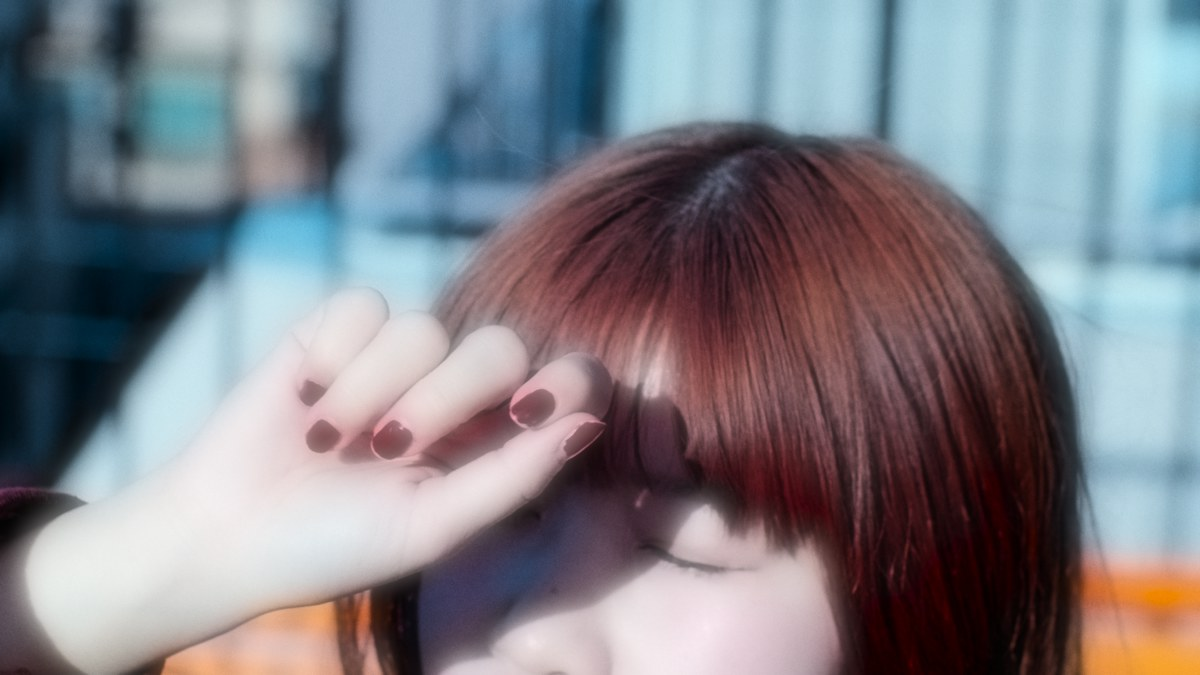
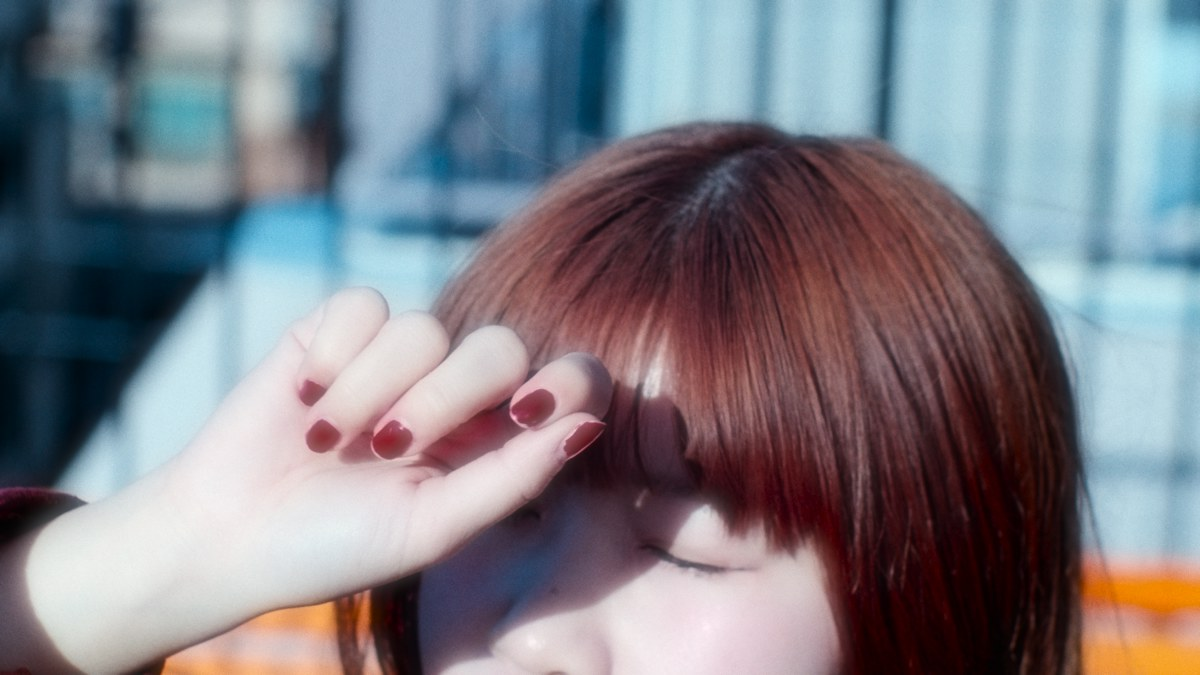
イラジエーションを弱める

diff --git a/jp/index.html b/jp/index.html
@@ -448,13 +448,13 @@ footer p{color:var(--lo); font-size:.74rem; line-height:2.1; max-width:52rem;
 <header class="hero">
   <!-- The picture first, and it moves. See the note in ../index.html: the shot
        runs untouched and the legibility is bought on the type's side. -->
-  <img class="hero-media hero-still" src="../img/hero.jpg?v=3458188f"
-       srcset="../img/hero@960.jpg?v=3458188f 960w, ../img/hero.jpg?v=3458188f 1920w"
+  <img class="hero-media hero-still" src="../img/hero.jpg?v=057b0606"
+       srcset="../img/hero@960.jpg?v=057b0606 960w, ../img/hero.jpg?v=057b0606 1920w"
        sizes="100vw" alt="" width="1920" height="1080">
   <video class="hero-media hero-video" autoplay muted loop playsinline
-         preload="metadata" poster="../img/hero.jpg?v=3458188f" width="1920" height="1080"
+         preload="metadata" poster="../img/hero.jpg?v=057b0606" width="1920" height="1080"
          aria-hidden="true" tabindex="-1">
-    <source src="../vid/hero.mp4?v=3458188f" type="video/mp4">
+    <source src="../vid/hero.mp4?v=057b0606" type="video/mp4">
   </video>
   <div class="hero-veil"></div>
   <div class="wrap">
@@ -557,9 +557,9 @@ footer p{color:var(--lo); font-size:.74rem; line-height:2.1; max-width:52rem;
       <span class="cmp-tag cmp-l">Bypass</span>
       <span class="cmp-tag cmp-r">Film Classic</span>
     </div>
-    <div class="compare" data-ver="3458188f" data-base="../img/" data-prefix="look-">
-      <img src="../img/source.jpg?v=3458188f" alt="" width="1200" height="675">
-      <div class="cmp-after"><img src="../img/look-filmClassic.jpg?v=3458188f" alt="" width="1200" height="675"></div>
+    <div class="compare" data-ver="057b0606" data-base="../img/" data-prefix="look-">
+      <img src="../img/source.jpg?v=057b0606" alt="" width="1200" height="675">
+      <div class="cmp-after"><img src="../img/look-filmClassic.jpg?v=057b0606" alt="" width="1200" height="675"></div>
       <div class="cmp-line"></div>
       <input class="cmp-range" type="range" min="0" max="100" value="50"
              aria-label="Bypass">
@@ -584,9 +584,9 @@ footer p{color:var(--lo); font-size:.74rem; line-height:2.1; max-width:52rem;
       <span class="cmp-tag cmp-l">すべてオフ</span>
       <span class="cmp-tag cmp-r">粒子</span>
     </div>
-    <div class="compare" data-ver="3458188f" data-base="../img/" data-prefix="fx-">
-      <img src="../img/fx-base.jpg?v=3458188f" alt="" width="1200" height="675">
-      <div class="cmp-after"><img src="../img/fx-grain.jpg?v=3458188f" alt="" width="1200" height="675"></div>
+    <div class="compare" data-ver="057b0606" data-base="../img/" data-prefix="fx-">
+      <img src="../img/fx-base.jpg?v=057b0606" alt="" width="1200" height="675">
+      <div class="cmp-after"><img src="../img/fx-grain.jpg?v=057b0606" alt="" width="1200" height="675"></div>
       <div class="cmp-line"></div>
       <input class="cmp-range" type="range" min="0" max="100" value="50" aria-label="すべてオフ">
     </div>

diff --git a/index.html b/index.html
@@ -455,13 +455,13 @@ footer p{color:var(--lo); font-size:.74rem; line-height:2.1; max-width:52rem;
        in a still. The shot runs untouched: no dimming and no desaturation,
        because that would hide what it is here to show. The still underneath is
        the first frame, so nothing shifts when the video takes over. -->
-  <img class="hero-media hero-still" src="img/hero.jpg?v=3458188f"
-       srcset="img/hero@960.jpg?v=3458188f 960w, img/hero.jpg?v=3458188f 1920w"
+  <img class="hero-media hero-still" src="img/hero.jpg?v=057b0606"
+       srcset="img/hero@960.jpg?v=057b0606 960w, img/hero.jpg?v=057b0606 1920w"
        sizes="100vw" alt="" width="1920" height="1080">
   <video class="hero-media hero-video" autoplay muted loop playsinline
-         preload="metadata" poster="img/hero.jpg?v=3458188f" width="1920" height="1080"
+         preload="metadata" poster="img/hero.jpg?v=057b0606" width="1920" height="1080"
          aria-hidden="true" tabindex="-1">
-    <source src="vid/hero.mp4?v=3458188f" type="video/mp4">
+    <source src="vid/hero.mp4?v=057b0606" type="video/mp4">
   </video>
   <div class="hero-veil"></div>
   <div class="wrap">
@@ -567,9 +567,9 @@ footer p{color:var(--lo); font-size:.74rem; line-height:2.1; max-width:52rem;
       <span class="cmp-tag cmp-l">Bypass</span>
       <span class="cmp-tag cmp-r">Film Classic</span>
     </div>
-    <div class="compare" data-ver="3458188f" data-base="img/" data-prefix="look-">
-      <img src="img/source.jpg?v=3458188f" alt="" width="1200" height="675">
-      <div class="cmp-after"><img src="img/look-filmClassic.jpg?v=3458188f" alt="" width="1200" height="675"></div>
+    <div class="compare" data-ver="057b0606" data-base="img/" data-prefix="look-">
+      <img src="img/source.jpg?v=057b0606" alt="" width="1200" height="675">
+      <div class="cmp-after"><img src="img/look-filmClassic.jpg?v=057b0606" alt="" width="1200" height="675"></div>
       <div class="cmp-line"></div>
       <input class="cmp-range" type="range" min="0" max="100" value="50"
              aria-label="Bypass">
@@ -594,9 +594,9 @@ footer p{color:var(--lo); font-size:.74rem; line-height:2.1; max-width:52rem;
       <span class="cmp-tag cmp-l">All off</span>
       <span class="cmp-tag cmp-r">Grain</span>
     </div>
-    <div class="compare" data-ver="3458188f" data-base="img/" data-prefix="fx-">
-      <img src="img/fx-base.jpg?v=3458188f" alt="" width="1200" height="675">
-      <div class="cmp-after"><img src="img/fx-grain.jpg?v=3458188f" alt="" width="1200" height="675"></div>
+    <div class="compare" data-ver="057b0606" data-base="img/" data-prefix="fx-">
+      <img src="img/fx-base.jpg?v=057b0606" alt="" width="1200" height="675">
+      <div class="cmp-after"><img src="img/fx-grain.jpg?v=057b0606" alt="" width="1200" height="675"></div>
       <div class="cmp-line"></div>
       <input class="cmp-range" type="range" min="0" max="100" value="50" aria-label="All off">
     </div>
